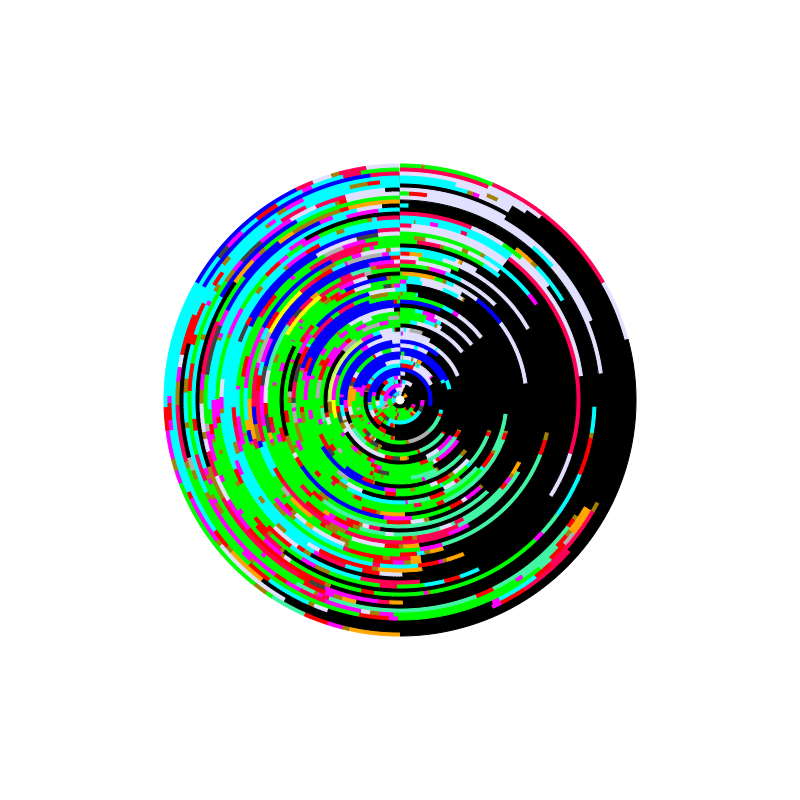
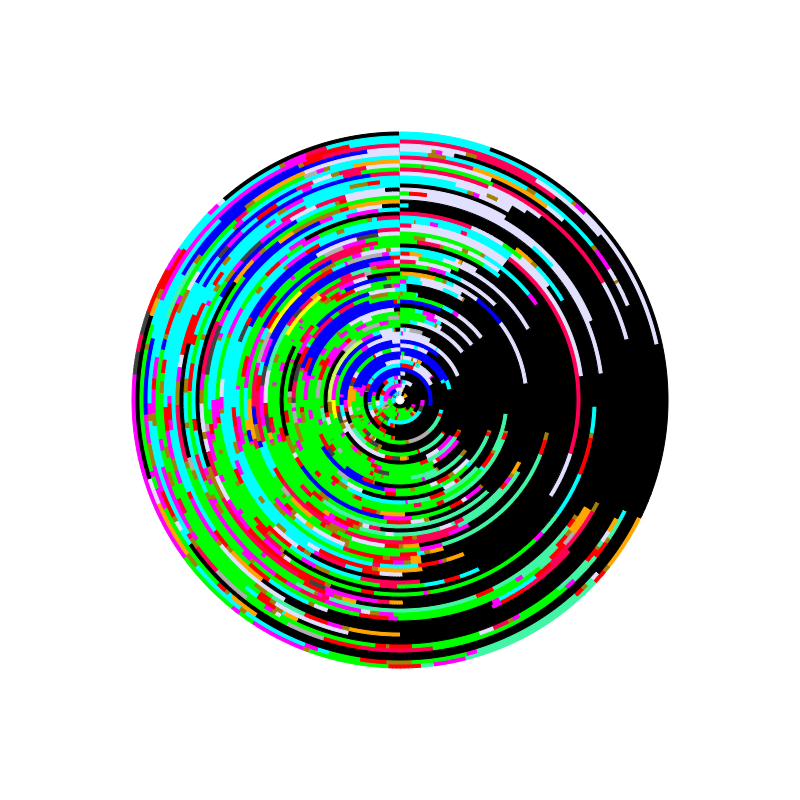
added 4/14 through 4/21

Changed region(s): [[0.1562, 0.1562, 0.8438, 0.8438]]

diff --git a/index.html b/index.html
@@ -15,13 +15,13 @@
 		</div>
 	-->
 		<div class="inputDiv">
-			<label for="cRad">Pie Radius</label><input name="cRad" id="cRad" type="number" min="0.1" max="50" step="1" value="240">
+			<label for="cRad">Pie Radius</label><input name="cRad" id="cRad" type="number" min="0.1" max="50" step="1" value="272">
 		</div>
 		<div class="inputDiv">
-			<label for="sRad">Spiral Start Radius</label><input name="sRad" id="sRad" type="number" min="0.1" max="50" step="1" value="354">
+			<label for="sRad">Spiral Start Radius</label><input name="sRad" id="sRad" type="number" min="0.1" max="50" step="1" value="402">
 		</div>
 		<div class="inputDiv">
-			<label for="eRad">Spiral End Radius</label><input name="eRad" id="eRad" type="number" min="0.1" max="50" step="1" value="360">
+			<label for="eRad">Spiral End Radius</label><input name="eRad" id="eRad" type="number" min="0.1" max="50" step="1" value="408">
 		</div>
 		<div id="buttonDiv">
 			<label>Open .png <input type="file" id="impBtn" name="impBtn" accept=".png" onchange="importCanvas();"></label>
@@ -58,21 +58,78 @@
 			var ctx2 = canvas2.getContext("2d");
 
 			var myDay = [
+				['01:15','sleep'],
+				['01:21','side work'],
 				['01:30','TV'],
-				['12:50','sleep'],
-				['14:06','TV'],
-				['14:12','bathroom'],
-				['14:24','eating'],
-				['17:04','main work'],
-				['17:15','bathroom'],
-				['18:07','main work'],
-				['18:18','bathroom'],
-				['18:26','main work'],
-				['18:39','eating'],
-				['19:26','side work'],
-				['19:50','bathroom'],
-				['20:10','TV'],
-				['','side work'],
+				['01:35','bathroom'],
+				['01:45','eating'],
+				['02:51','apiary'],
+				['02:58','chores'],
+				['05:16','side work'],
+				['05:23','admin'],
+				['05:33','bathroom'],
+				['06:03','eating'],
+				['07:42','side work'],
+				['07:55','bathroom'],
+				['12:30','sleep'],
+				['01:26','TV'],
+				['02:10','eating'],
+				['02:22','chores'],
+				['03:54','main work'],
+				['03:58','bathroom'],
+				['04:15','chores'],
+				['04:30','reading'],
+				['04:52','side work'],
+				['05:08','bathroom'],
+				['07:35','side work'],
+				['08:06','eating'],
+				['23:59','side work'],
+				// ['01:46','side work'],
+				// ['01:54','bathroom'],
+				// ['03:02','side work'],
+				// ['03:12','chores'],
+				// ['13:25','sleep'],
+				// ['13:55','TV'],
+				// ['14:36','social'],
+				// ['14:40','bathroom'],
+				// ['15:05','chores'],
+				// ['15:25','eating'],
+				// ['17:30','main work'],
+				// ['17:46','eating'],
+				// ['18:03','main work'],
+				// ['18:21','chores'],
+				// ['19:00','side work'],
+				// ['22:00','entertainment'],
+				// ['23:00','chores'],
+				// ['23:59','side work'],
+				// ['01:39','side work'],
+				// ['01:42','bathroom'],
+				// ['01:50','chores'],
+				// ['04:45','sleep'],
+				// ['05:14','reading'],
+				// ['05:19','TV'],
+				// ['05:53','eating'],
+				// ['07:08','side work'],
+				// ['07:28','chores'],
+				// ['08:25','side work'],
+				// ['10:21','apiary'],
+				// ['10:25','bathroom'],
+				// ['10:52','main work'],
+				// ['11:16','eating'],
+				// ['12:14','main work'],
+				// ['12:21','chores'],
+				// ['16:52','sleep'],
+				// ['17:06','main work'],
+				// ['17:51','chores'],
+				// ['19:07','side work'],
+				// ['19:45:','eating'],
+				// ['20:09','chores'],
+				// ['20:14','bathroom'],
+				// ['23:59','side work'],
+				// ['00:25','side work'],
+				// ['00:41','TV'],
+				// ['00:50','bathroom'],
+				// ['02:27','side work'],
 			];
 
 			var categories = {
